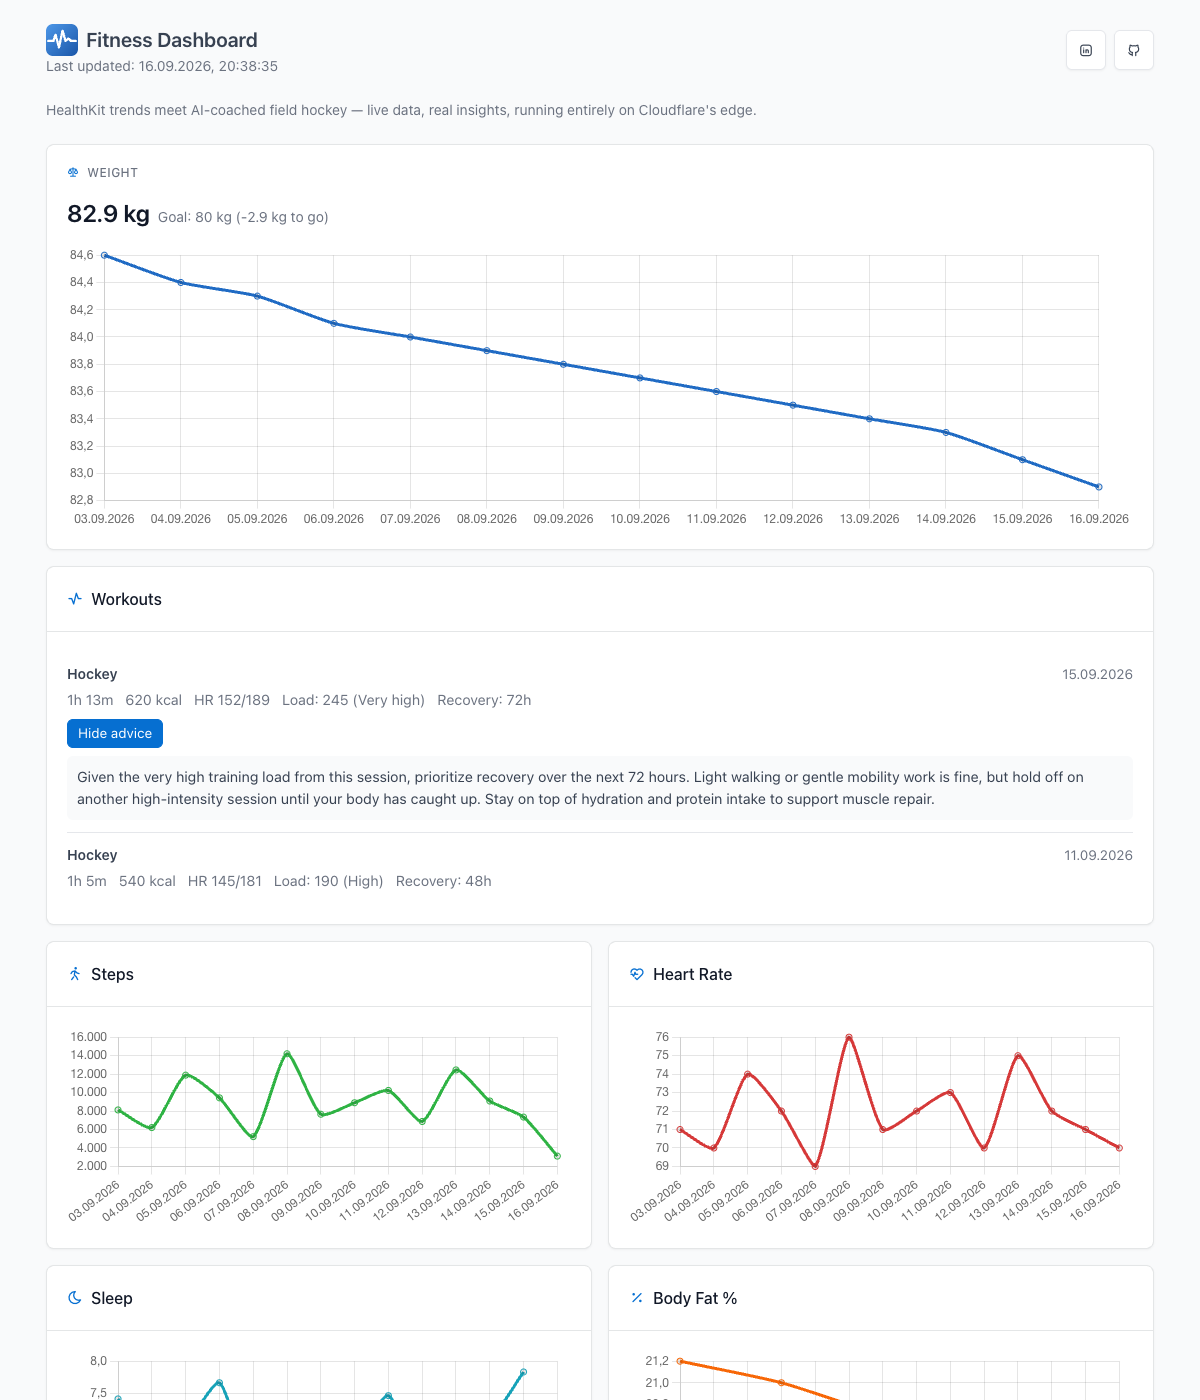
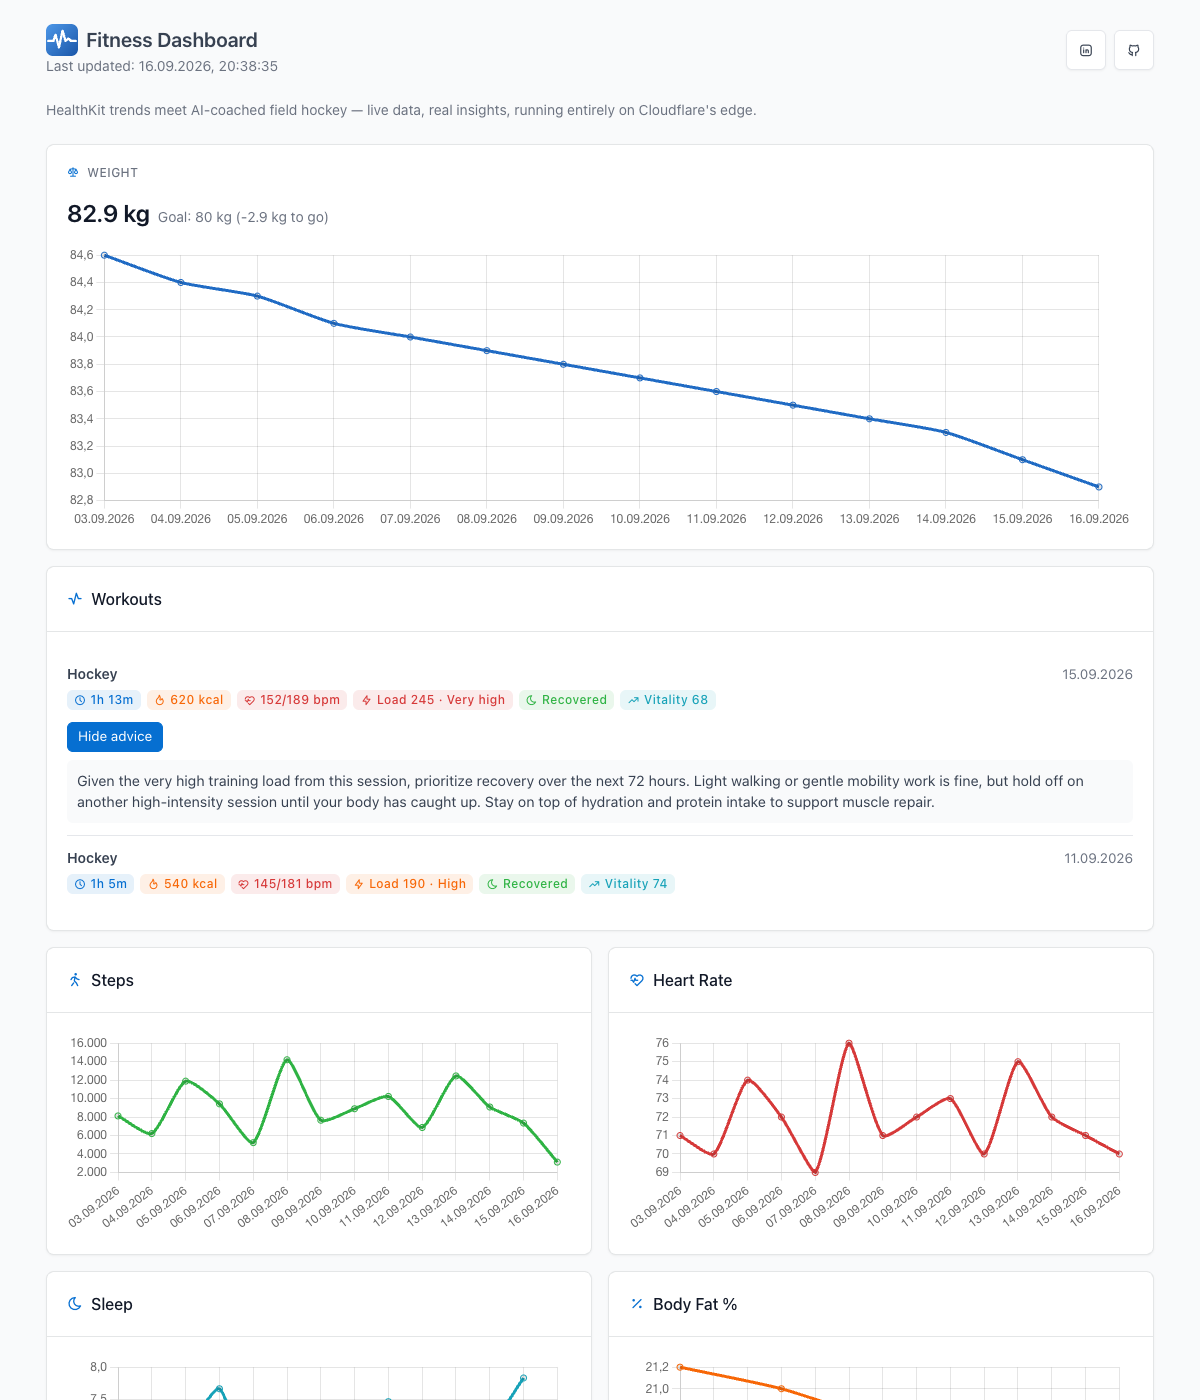
Turn flat workout stats into informative color-coded badges
Replaces the plain comma-separated stat text with icon+color badges:
duration, calories, HR stay neutral; Load is colored by severity;
Recovery becomes a dynamic "Xh recovery left" / "Recovered" status
computed from started_at + recovery_hours vs now. Also surfaces
Vitality Score, which wasn't shown anywhere before. Regenerated README
screenshots to match.

diff --git a/public/dashboard.js b/public/dashboard.js
@@ -43,6 +43,57 @@ function escapeHtml(str) {
   return div.innerHTML;
 }
 
+function loadBadgeColor(label) {
+  const l = (label || '').toLowerCase();
+  if (l.includes('very high')) return 'red';
+  if (l.includes('high')) return 'orange';
+  if (l.includes('very low')) return 'green';
+  if (l.includes('low')) return 'cyan';
+  if (l.includes('moderate') || l.includes('optimal')) return 'yellow';
+  return 'secondary';
+}
+
+function formatRecoveryStatus(startedAt, recoveryHours) {
+  const recoveryEndsAt = new Date(startedAt).getTime() + recoveryHours * 3600000;
+  const hoursLeft = Math.ceil((recoveryEndsAt - Date.now()) / 3600000);
+  if (hoursLeft <= 0) return { text: 'Recovered', color: 'green' };
+  const color = hoursLeft > recoveryHours / 2 ? 'red' : 'orange';
+  return { text: `${hoursLeft}h recovery left`, color };
+}
+
+function buildStatBadges(w) {
+  const badges = [];
+  if (w.duration_sec !== null) {
+    badges.push(
+      `<span class="badge bg-blue-lt"><i class="ti ti-clock"></i> ${formatWorkoutDuration(w.duration_sec)}</span>`
+    );
+  }
+  if (w.active_kcal !== null) {
+    badges.push(`<span class="badge bg-orange-lt"><i class="ti ti-flame"></i> ${w.active_kcal} kcal</span>`);
+  }
+  if (w.avg_hr !== null) {
+    const hrText = w.max_hr !== null ? `${w.avg_hr}/${w.max_hr} bpm` : `${w.avg_hr} bpm avg`;
+    badges.push(`<span class="badge bg-red-lt"><i class="ti ti-heartbeat"></i> ${hrText}</span>`);
+  }
+  if (w.training_load !== null) {
+    const color = loadBadgeColor(w.training_load_label);
+    const labelText = w.training_load_label ? ` &middot; ${escapeHtml(w.training_load_label)}` : '';
+    badges.push(
+      `<span class="badge bg-${color}-lt"><i class="ti ti-bolt"></i> Load ${w.training_load}${labelText}</span>`
+    );
+  }
+  if (w.recovery_hours !== null) {
+    const status = formatRecoveryStatus(w.started_at, w.recovery_hours);
+    badges.push(`<span class="badge bg-${status.color}-lt"><i class="ti ti-moon"></i> ${status.text}</span>`);
+  }
+  if (w.vitality_score !== null) {
+    badges.push(
+      `<span class="badge bg-cyan-lt"><i class="ti ti-trending-up"></i> Vitality ${w.vitality_score}</span>`
+    );
+  }
+  return badges.join(' ');
+}
+
 function renderWorkouts(workouts) {
   const container = document.getElementById('workouts-list');
   if (workouts.length === 0) {
@@ -52,11 +103,6 @@ function renderWorkouts(workouts) {
   container.innerHTML = workouts
     .map((w, index) => {
       const date = formatDisplayDate(w.started_at);
-      const load =
-        w.training_load !== null
-          ? `${w.training_load}${w.training_load_label ? ` (${escapeHtml(w.training_load_label)})` : ''}`
-          : '--';
-      const recovery = w.recovery_hours !== null ? `${w.recovery_hours}h` : '--';
       const imageUrl = `/api/workouts/image?started_at=${encodeURIComponent(w.started_at)}`;
       const thumb = w.image_key
         ? `<a href="${imageUrl}" target="_blank" rel="noopener">
@@ -78,11 +124,7 @@ function renderWorkouts(workouts) {
                 <span class="muted">${date}</span>
               </div>
               <div class="workout-stats">
-                <span>${formatWorkoutDuration(w.duration_sec)}</span>
-                <span>${w.active_kcal ?? '--'} kcal</span>
-                <span>HR ${w.avg_hr ?? '--'}/${w.max_hr ?? '--'}</span>
-                <span>Load: ${load}</span>
-                <span>Recovery: ${recovery}</span>
+                ${buildStatBadges(w)}
               </div>
               ${adviceToggle}
             </div>

diff --git a/public/styles.css b/public/styles.css
@@ -30,9 +30,8 @@
 .workout-stats {
   display: flex;
   flex-wrap: wrap;
-  gap: 12px;
-  font-size: 0.9rem;
-  color: var(--tblr-text-secondary, #6b7280);
+  gap: 6px;
+  margin-bottom: 4px;
 }
 
 .workout-row {
